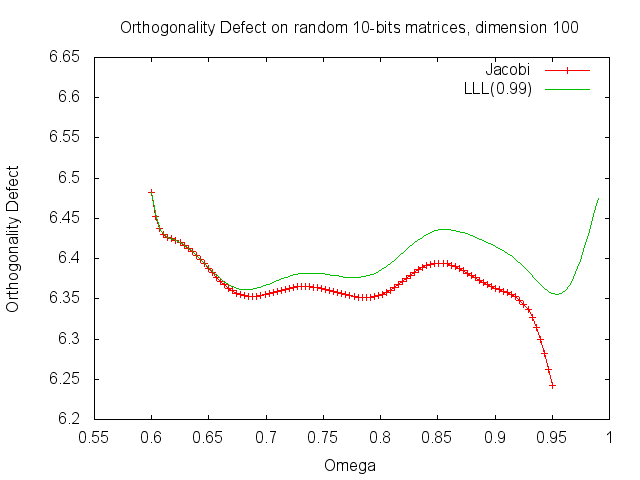
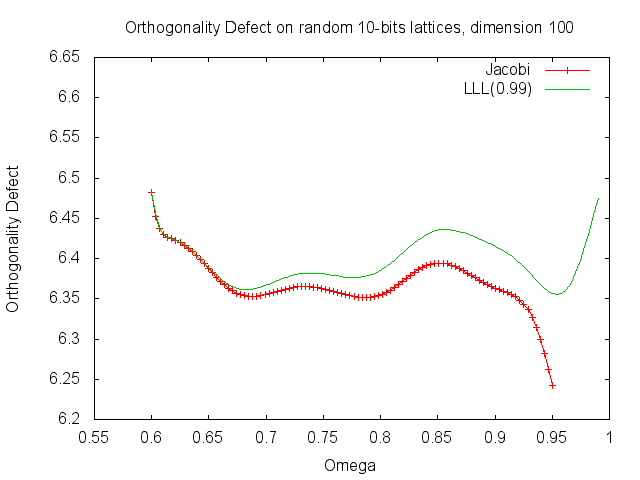
Presentation state

Changed region(s): [[0.1875, 0.0312, 0.9062, 0.0938]]

diff --git a/src/JacobiTests.cpp b/src/JacobiTests.cpp
@@ -12,13 +12,37 @@ using namespace std;
 using namespace newNTL;
 using namespace std::chrono;
 
+#include "vec_double.h"
+
 # pragma mark Utility Methods
 
 const long BENCHMARK_MATRIX_SIZE   = 30;
 const long BENCHMARK_MATRIX_BIT    = 10;
 
-const int  BENCHMARK_DIMENSION_MIN = 20;
-const int  BENCHMARK_DIMENSION_MAX = 400;
+const int  BENCHMARK_DIMENSION_MIN = 50;
+const int  BENCHMARK_DIMENSION_MAX = 200;
+
+RR computeAverageRR (vec_RR &result){
+
+    RR average = 0;
+
+    for (int i = 1; i <= result.length() ; i++){
+        average += result(i);
+    }
+
+    return average/result.length();
+}
+
+double computeAverageDouble(Vec<double> &result){
+
+    RR average = 0;
+
+    for (int i = 1; i <= result.length() ; i++){
+        average += result(i);
+    }
+
+    return to_double(average/result.length());
+}
 
 mat_ZZ toMatZZ(Mat<double> matDouble){
     mat_ZZ matrixZZ;
@@ -161,48 +185,101 @@ void generateHermiteDataRandomMatrix () {
     lllDataFile.close();
 }
 
-void generateHermiteDoubleDataRandomMatrix () {
+
+
+
+
+double lllvsJacobiRandomLattice(int dimension){
+
+    cout << "Starting reduction of dimension " << dimension << endl;
 
     ofstream jacobiDataFile, lllDataFile;
 
-    jacobiDataFile.open ("dataHermiteRandomMatrix_Jacobi.txt");
-    lllDataFile.open("dataHermiteRandomMatrix_LLL.txt");
+    jacobiDataFile.open ("dataRandomLattice_Jacobi.txt", ios::app);
+    lllDataFile.open("dataRandomLattice_LLL.txt",        ios::app);
+
+    int testsToRun = 50;
+
+    vec_RR orthogonalityLLL;
+    vec_RR orthogonalityJacobi;
+    vec_RR hermiteLLL;
+    vec_RR hermiteJacobi;
+
+    vec_double timeJacobi;
+    vec_double timeLLL;
+
+    vec_double countsJacobi;
+
+    orthogonalityJacobi.SetLength(testsToRun);
+    orthogonalityLLL.SetLength(testsToRun);
+    hermiteJacobi.SetLength(testsToRun);
+    hermiteLLL.SetLength(testsToRun);
+    timeJacobi.SetLength(testsToRun);
+    timeLLL.SetLength(testsToRun);
+    countsJacobi.SetLength(testsToRun);
+
+    for (int i = 1; i <= testsToRun; i++){
+
+        cout << "Running loop " << i << " for dimension " << dimension << endl;
+
+        // - take an HNF basis of a random lattice
+
+        mat_ZZ mat = MatrixFactory::makePrimeHNFMatrix(dimension, BENCHMARK_MATRIX_BIT);
+
+        mat_ZZ lllReducedMat = mat;
+        mat_ZZ jacobiReducedMat = mat;
+
+        // - reduce the basis with LLL
+
+        high_resolution_clock::time_point lllT1= high_resolution_clock::now();
+        LLL_fplll(lllReducedMat);
+        high_resolution_clock::time_point lllT2 = high_resolution_clock::now();
+
+        cout << "LLL Reduced" << endl;
+
+        double lllDuration = std::chrono::duration_cast<std::chrono::microseconds>(lllT2 - lllT1).count();
+        timeLLL(i) = lllDuration;
+        orthogonalityLLL(i) = orthogonalityDefect(lllReducedMat);
+        hermiteLLL(i) = hermiteFactor(lllReducedMat);
+
+        // - reduce the LLL-reduced basis and check if HF and OD are better <== I assume you mean with Jacobi?
+
+        double omega  = 0.8;
+
+        high_resolution_clock::time_point jacobiT1= high_resolution_clock::now();
+        double count = JacobiMethod::reduceLattice(jacobiReducedMat, omega);
+        high_resolution_clock::time_point jacobiT2 = high_resolution_clock::now();
+        cout << "Jacobi reduced" << endl;
+
+        double jacobiDuration = std::chrono::duration_cast<std::chrono::microseconds>(jacobiT2 - jacobiT1).count();
+
+        orthogonalityJacobi(i)              = jacobiDuration;
+        countsJacobi(i)                     = count;
+        orthogonalityJacobi(i)              = orthogonalityDefect(jacobiReducedMat);
+        hermiteJacobi(i)                    = hermiteFactor(jacobiReducedMat);
+    }
+
+    jacobiDataFile << dimension << " " << computeAverageRR(orthogonalityJacobi) << " " << computeAverageRR(hermiteJacobi) << " " << computeAverageDouble(timeJacobi) << " " << computeAverageDouble(countsJacobi) << endl;
+    lllDataFile    << dimension << " " << computeAverageRR(orthogonalityLLL)    << " " << computeAverageRR(hermiteLLL)    << " " << computeAverageDouble(timeLLL)    << endl;
+}
+
+void benchmarkRandomLattice () {
+
+    ofstream jacobiDataFile, lllDataFile;
+
+    jacobiDataFile.open ("dataRandomLattice_Jacobi.txt");
+    lllDataFile.open("dataRandomLattice_LLL.txt");
 
     for (int i = BENCHMARK_DIMENSION_MIN ; i < BENCHMARK_DIMENSION_MAX; i++) {
-        Mat<double> randomMatrix  = MatrixFactory::makeRandomSquareMatrixDouble(i, BENCHMARK_MATRIX_BIT);
-
-        /// Jacobi-Reduction
-        Mat<double> jacobiReduced = randomMatrix;
-
-        high_resolution_clock::time_point jacobiT1 = high_resolution_clock::now();
-        JacobiMethod::reduceLatticeDouble(jacobiReduced, 0.99);
-        high_resolution_clock::time_point jacobiT2 = high_resolution_clock::now();
-
-        
-        auto jacobiDuration = std::chrono::duration_cast<std::chrono::microseconds>(jacobiT2 - jacobiT1).count();
-        mat_ZZ jacobiReducedZZ;
-        conv(jacobiReducedZZ,jacobiReduced);
-
-        jacobiDataFile << i << " " << hermiteFactor(jacobiReducedZZ) << " " << orthogonalityDefect(jacobiReducedZZ) << " " << jacobiDuration << endl;
-
-        // LLL-reduction
-        mat_ZZ lllReduced;
-        conv(lllReduced, randomMatrix);
-        
-        high_resolution_clock::time_point lllT1 = high_resolution_clock::now();
-        LLL_fplll(lllReduced, 0.99);
-        high_resolution_clock::time_point lllT2 = high_resolution_clock::now();
-        auto lllDuration = std::chrono::duration_cast<std::chrono::microseconds>(lllT2-lllT1).count();
-        lllDataFile << i << " " << hermiteFactor(lllReduced) << " " << orthogonalityDefect(lllReduced) << " " << lllDuration << endl;
-        cout << "i = "  << i <<" ended" <<endl;
+        lllvsJacobiRandomLattice(i);
     }
 
     jacobiDataFile.close();
     lllDataFile.close();
 }
-//
-//int main()
-//{
-//    //generateHermiteDoubleDataRandomMatrix();
-//    return 0;
-//}
+
+int main()
+{
+    benchmarkRandomLattice();
+    return 0;
+}

diff --git a/report/presentation.tex b/report/presentation.tex
@@ -134,45 +134,7 @@
  	$$\text{Lattice }\Ls = \sum_i \alert{\Z}\cdot \vec{b}_i $$
  	\end{block}
 	\item $B$ is called a basis of $\Ls$, it is not unique
-	\end{itemize}
- \end{column}
-\end{columns}
-}
-
-\frame{
-\frametitle{Short vectors}
-\begin{columns}[]
-  \begin{column}{0.3\textwidth}
-\input{figlat/latminimum}
-  \end{column}
-  \begin{column}{0.7\textwidth}
-  Norm of a vector $\vec{x}$ is given by $\|\vec{x}\| := \sqrt{\sum x^2_i}$
-  \begin{block}{First lattice minimum}
- 	\begin{itemize}
- 	\item Length of a shortest vector of a $n$-dimensional lattice $\Ls$:
- 	\begin{eqnarray*} 
- 	\lambda_1(\Ls)% &= &\min\limits_{x,y\in \Ls, x\neq y} \|x-y\|\\
- 	&:= &\min\limits_{x\in \Ls, x\neq 0} \|x\|
- 		\end{eqnarray*} 	
- 			\item Minimal distance between two lattice vectors
- 				\end{itemize}
- 				\end{block}
- \end{column}
-\end{columns}
-}
-
-\frame{
-\frametitle{Shortest vector problem }
-\begin{columns}[]
-  \begin{column}{0.3\textwidth}
-    \input{figlat/latSVP}
-  \end{column}
-  \begin{column}{0.7\textwidth}
- 	\begin{itemize}
- 	\item Shortest vector problem ($SVP_2$) \\
- 	Given $B$, find $v\in \Ls\backslash\{0\}$ of minimal length.\vspace{.3cm}
- 	\pause 
- 	\item Problem is hard for large dimensions and a skewed??????????? basis 
+	\item the volume of a full-rank lattice is given by $\text{vol}(\Ls) = |det(B)|$
 	\end{itemize}
  \end{column}
 \end{columns}
@@ -203,6 +165,23 @@ where $a_i \in \mathbb{Z}/ P\mathbb{Z}$.
 
 We define an \emph{almost orthogonal lattice basis} $M$ of dimension $n$ and of bit length $k$ as an $n \times n$ square matrix whose entries are $k$-bit integers picked at random.
 
+}
+
+\frame{
+\frametitle{Gram Schmidt orthogonalisation - GSO}
+\begin{itemize}
+\item Basis $B = (\vec{b}_1, \ldots, \vec{b}_n)$
+\item Compute GSO of $B$:\\
+ $\vec{b}_1^* = \vec{b}_1$\\
+ $\vec{b}_2^* = \vec{b}_2 - \frac{\langle b_2, b_1^*\rangle}{\|\vec{b}_1\|^2} \vec{b}_1$\\
+  $\vec{b}_3^* = \vec{b}_3 - \frac{\langle b_3, b_1^*\rangle}{\|b_1\|^2} \vec{b}^*_1- \frac{\langle b_3, b_2^*\rangle}{\|b_2^*\|^2} \vec{b}_2^*$\\
+  $\ldots$
+  
+  \vspace{.3cm}
+%\item Obtain $\pi_i(b_i) = b_i^*$ as\\
+\item In general 
+ $$\vec{b}_i^* = \vec{b}_i - \sum_{j<i}  \mu_{ij}  \vec{b}_j^* \text{ where }\mu_{ij} := \frac {\langle b_i, b_j^*\rangle} { \|b_j^*\|^2 }$$
+\end{itemize}
 }
 
 \frame{
@@ -350,6 +329,25 @@ The \emph{Hermite factor} of basis vectors $\vec{b_1}, \vec{b_2},...,\vec{b_n}$ 
 \includegraphics[width=\textwidth]{results-graphs/LLLThenJacobi/defect-logscale-difference.png}
 \end{center}
 }
+
+\frame{
+\frametitle{Jacobi after LLL}
+\begin{block}{Example of LLL-reduced basis but not Jacobi-reduced}
+
+\[
+B = \begin{bmatrix}
+  \vec{b_1} \\
+  \vec{b_2} \\
+  \vec{b_3}
+ \end{bmatrix} = \begin{bmatrix}
+  0 & 2 & 0 \\
+  0 & 1 & 2 \\
+  2 & 0 & 0
+ \end{bmatrix}
+\]
+\end{block}
+}
+
 
 \section{Acknowledgements and Bibliography}
 

diff --git a/src/JacobiMethod.cpp b/src/JacobiMethod.cpp
@@ -13,7 +13,7 @@ using namespace newNTL;
 #include "ReductionQualityChecker.h"
 
 #pragma mark Lagrange Algorithm
-bool verbose =false;
+bool verbose = true;
 
 ZZ computeQ(vec_ZZ &a1, vec_ZZ &a2) {
     RR qNumerator   = a1 * a2;
@@ -74,8 +74,8 @@ mat_ZZ genericJacobiMethod(mat_ZZ &matrix) {
 #pragma mark LagrangeIT Algorithm
 
 bool lagrangeIT (mat_ZZ &g, mat_ZZ &z, int i, int j, RR &omega) {
-    
-    
+
+
     int s = i;
     int l = j;
     if(verbose) {
@@ -116,45 +116,6 @@ bool lagrangeIT (mat_ZZ &g, mat_ZZ &z, int i, int j, RR &omega) {
     //cout <<" . " ;
     return true;
 }
-
-#pragma mark Fast Jacobi Method
-
-bool fastJacobiMethodLoopShouldRun(mat_ZZ &g, RR omega) {
-    int nRows = g.NumRows();
-
-    for (int i = 1; i < nRows; i++) {
-        for (int j = i + 1; j <= nRows; j++) {
-
-            int s = i;
-            int l = j;
-
-            if (g(i, i) > g(j,j)){
-                s = j;
-                l = i;
-            }
-
-            RR gij = g(s,l);
-            RR gss = g(s,s);
-            RR gll = g(l,l);
-
-            ZZ condition1 = abs(RoundToZZ(gij/gss));
-            if (condition1 > 1) {
-                //cout << "indexes : " << s << ", " << l << endl;
-                //cout << "gij, gss, gll : " << gij << ", " << gss << ", " << gll << endl;
-                return true;
-            }
-
-            if (((omega * omega)*gll) > ( gss + gll - 2*(abs(gij)))) {
-                //cout << "indexes : " << s << ", " << l << endl;
-                //cout << "gij, gss, gll : " << gij << ", " << gss << ", " << gll << endl;
-                return true;
-            }
-        }
-    }
-
-    return false;
-}
-
 
 
 // Returns Z, the unimodular reduction matrix

diff --git a/report/definitions/lagrange-omega-reduced.tex b/report/definitions/lagrange-omega-reduced.tex
@@ -2,8 +2,7 @@ There are two conditions for a basis to be $\omega$-Lagrange-reduced.
 
 \[
 \begin{cases}
-\lfloor g_{ij} / g_{ss} \rceil \leq 1, \\
-\omega^2 g_{ll} \leq g_{ii} + g_{jj} - 2|g_{ij}|
-
+|\lfloor \vec{a}_l^T \vec{a}_s / \|\vec{a}_s \| \rceil \leq 1,\\
+\omega \| \vec{a}_l \| \leq \|\vec{a}_l - \zeta \vec{a}_s\|
 \end{cases}
-\]  where $1/\sqrt{3} \leq \omega < 1$ and $g_ij$ the entries of the Gram matrix $G$ at indexes ($i,j$).
+\]  where $1/\sqrt{3} \leq \omega < 1$.
